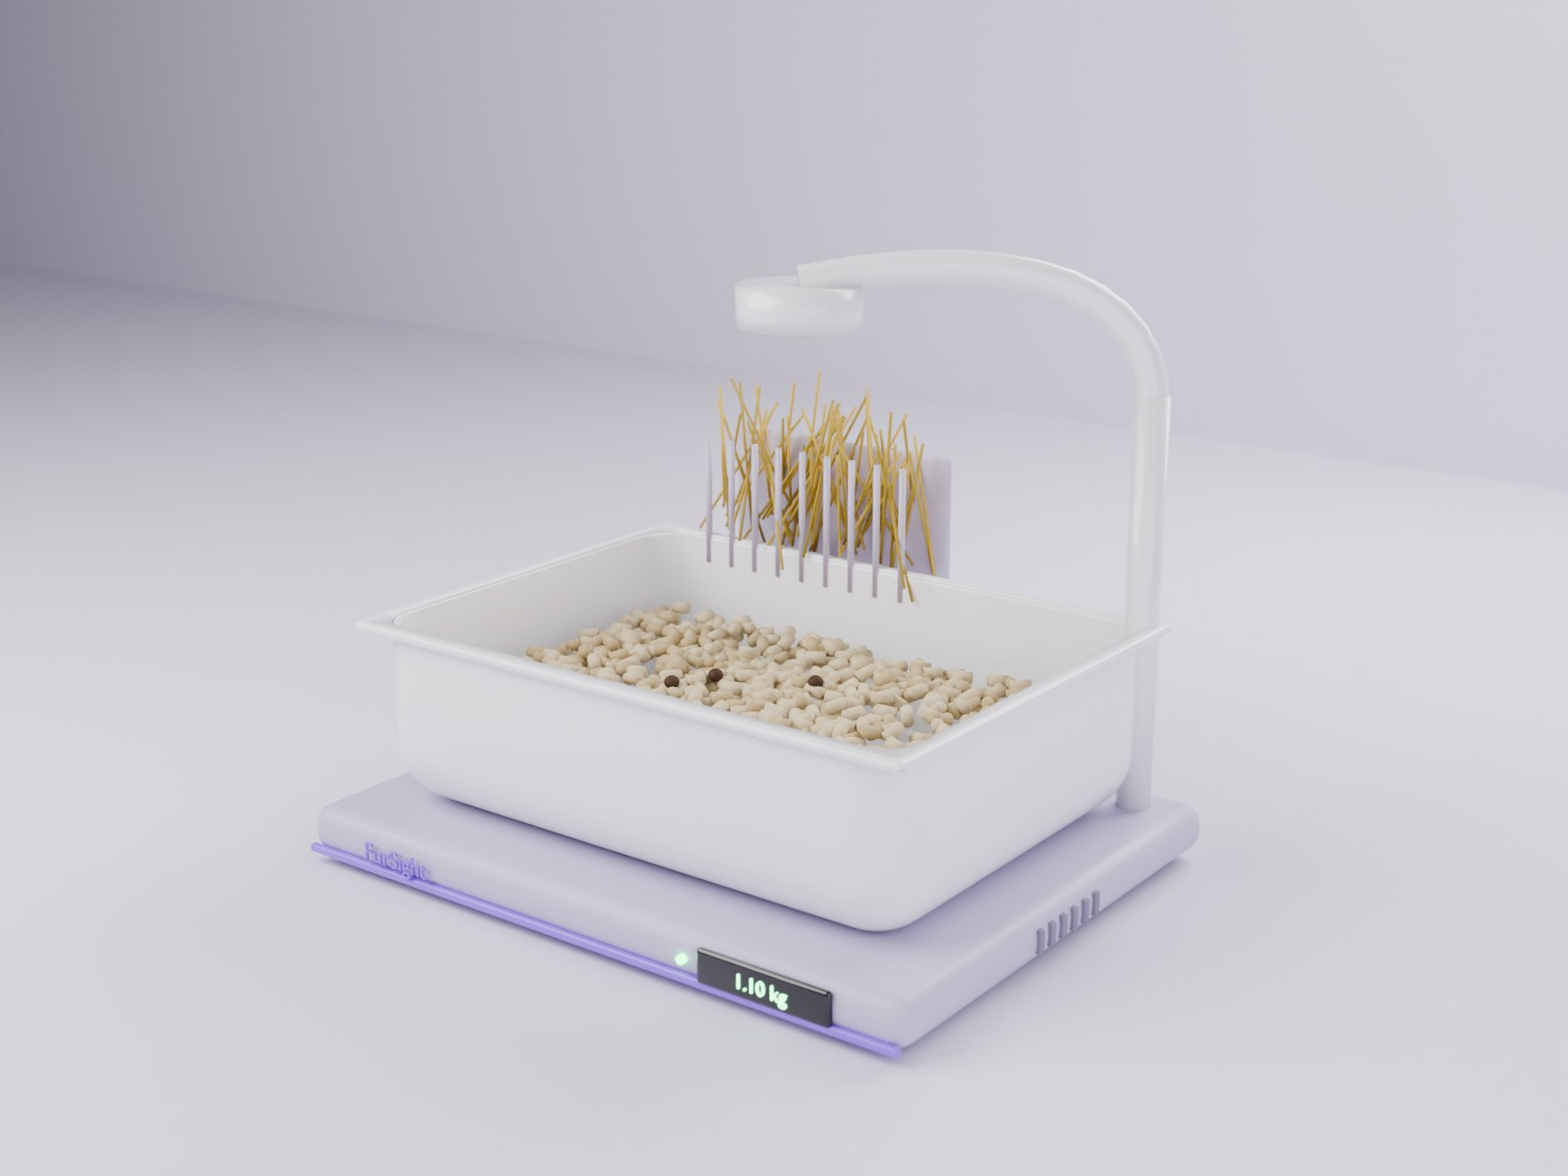
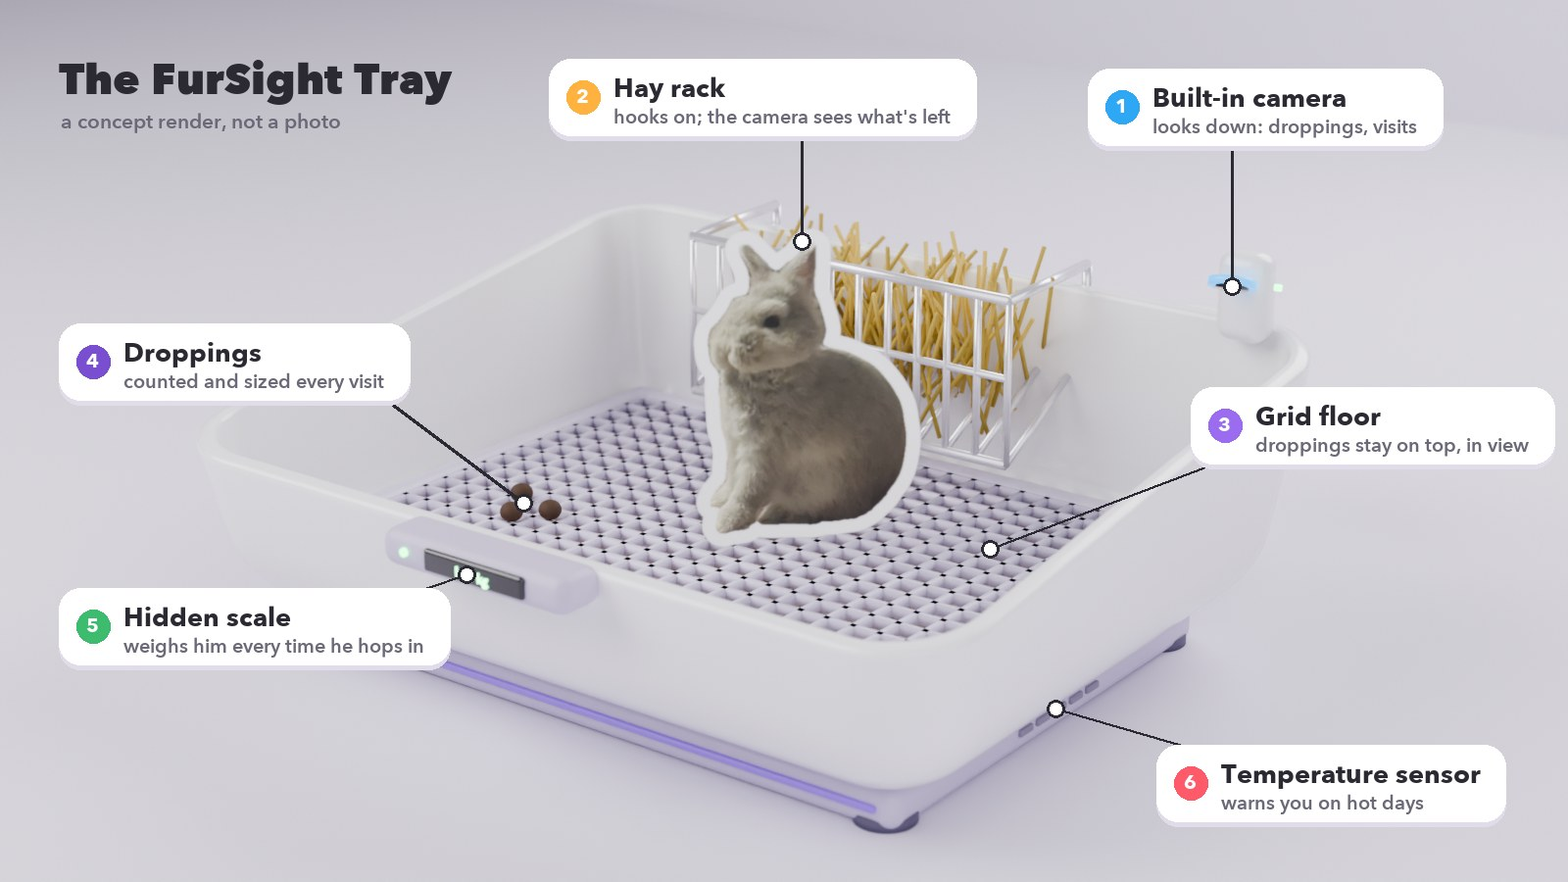
FurSight Tray re-render: tapered tray with grid floor, wire hay rack, hidden scale, built-in camera, Xiaosi, labels; device stickers from SAM 3.1 cutouts

diff --git a/server/public/intro/index.html b/server/public/intro/index.html
@@ -31,7 +31,7 @@
   #card .plate { background: #FFFFFF; padding: .5em 1.1em .6em; border-radius: .5em; box-shadow: 0 .12em 0 rgba(43,42,51,.12); }
   #card .plate p { color: var(--ink); }
   /* the kit and the price, after the story */
-  #extra { position: absolute; inset: 0; background: var(--bg); opacity: 0; transition: opacity .7s ease; pointer-events: none; display: grid; place-items: center; }
+  #extra { position: absolute; inset: 0; padding-bottom: 12%; background: var(--bg); opacity: 0; transition: opacity .7s ease; pointer-events: none; display: grid; place-items: center; }
   #extra.on { opacity: 1; }
   .kitrow { position: absolute; inset: 3% 3% 17% 3%; display: flex; gap: 2.5%; align-items: center; justify-content: center; }
   .kitrow img.kit { height: 100%; max-width: 66%; object-fit: contain; border-radius: 18px; }
@@ -53,6 +53,8 @@
   .dev { background: #FFFFFF; border-radius: 24px; overflow: hidden; box-shadow: 0 6px 0 rgba(43,42,51,.10); color: var(--ink); }
   .dev .pic { aspect-ratio: 4 / 3; background: #EDE7F7; display: grid; place-items: center; overflow: hidden; }
   .dev .pic img { width: 100%; height: 100%; object-fit: cover; display: block; }
+  .dev .pic img.stk { width: 84%; height: 84%; object-fit: contain; filter: drop-shadow(0 5px 0 rgba(43,42,51,.14)); animation: bob 2.6s ease-in-out infinite; }
+  @keyframes bob { 50% { transform: translateY(-4%) rotate(-2deg); } }
   .dev b { display: block; padding: 4% 6% 0; font-size: clamp(13px, 1.6vw, 26px); font-weight: 900; }
   .dev p { margin: 0; padding: 1% 6% 6%; font-size: clamp(10px, 1.15vw, 19px); font-weight: 800; color: var(--muted); }
   .dev.soon b::after { content: "concept"; margin-left: .5em; font-size: .6em; vertical-align: middle; background: #F1EEF6; color: var(--grape-lip); padding: .15em .6em; border-radius: 99px; }
@@ -217,8 +219,8 @@ async function story(r) {
   show("devices", false); $("bunwrap").setAttribute("opacity", 1);
   $("capText").classList.remove("on"); sfx("whoosh", .6);
   extra(`<div class="devs"><h2>Works today on</h2>
-    <div class="dev"><div class="pic"><img src="/meta/ray-ban-display.jpg" alt="Meta Ray-Ban Display"></div><b>Meta Ray-Ban Display</b><p>Hold up food, ask about him, peek at the pet cam</p></div>
-    <div class="dev"><div class="pic"><img src="/meta/quest-3.jpg" alt="Meta Quest 3"></div><b>Meta Quest</b><p>Verdict cards pinned to real food; speak a note</p></div>
+    <div class="dev"><div class="pic"><img class="stk" src="/meta/ray-ban-display.png" alt="Meta Ray-Ban Display"></div><b>Meta Ray-Ban Display</b><p>Hold up food, ask about him, peek at the pet cam</p></div>
+    <div class="dev"><div class="pic"><img class="stk" src="/meta/quest-3.png" alt="Meta Quest 3" style="animation-delay:-.9s"></div><b>Meta Quest</b><p>Verdict cards pinned to real food; speak a note</p></div>
     <div class="dev"><div class="pic"><div class="phone"><div><img src="${S.stickers.bum.src}" alt=""></div></div></div><b>Your phone</b><p>His diary, alerts with stickers, his week</p></div>
     <div class="credit">Product images: Meta</div></div>`);
   await wait(300, r); await caption("Meta Ray-Ban Display, Meta Quest and your phone.", 3600, r);
@@ -257,10 +259,10 @@ async function story(r) {
     <div class="foot">Rough concept pricing. In this hackathon build the Tray's sensors are simulated; the cams are real.</div></div>`);
   await wait(5600, r);
   sfx("whoosh", .6);
-  extra(`<div class="devs" style="grid-template-columns:repeat(2,1fr);width:66%"><h2>Where it could go next</h2>
-    <div class="dev soon"><div class="pic"><img src="/meta/vr-glasses.jpg" alt="Meta VR Glasses"></div><b>Meta VR Glasses</b><p>Sit with his pet cams in a cosy room while you're away</p></div>
-    <div class="dev soon"><div class="pic"><div class="charm"><img src="${S.stickers.loaf.src}" alt=""></div></div><b>Muse Charm</b><p>His sticker on your keychain; ask Muse how he is</p></div>
-    <div class="credit">Meta VR Glasses image: Meta. Muse Charm drawn as an idea; not built.</div></div>`);
+  extra(`<div class="devs" style="grid-template-columns:repeat(2,1fr);width:54%"><h2>Where it could go next</h2>
+    <div class="dev soon"><div class="pic"><img class="stk" src="/meta/vr-glasses.png" alt="Meta VR Glasses"></div><b>Meta VR Glasses</b><p>Sit with his pet cams in a cosy room while you're away</p></div>
+    <div class="dev soon"><div class="pic"><img class="stk" src="/meta/muse-charm.png" alt="Muse Charm" style="animation-delay:-1.2s"></div><b>Muse Charm</b><p>His sticker on its screen; ask Muse how he is</p></div>
+    <div class="credit">Images: Meta, VRX. FurSight on these is an idea, not built yet.</div></div>`);
   await wait(300, r); await caption("And next: Meta VR Glasses, and Muse Charm on your keychain.", 4000, r);
   $("capText").classList.remove("on");
   extra(""); await wait(500, r);

diff --git a/docs/kit-src/tray_render.py b/docs/kit-src/tray_render.py
@@ -1,10 +1,12 @@
 """A concept render of the FurSight Tray, for the kit page and the README (not a photo of a real product).
 
     /Applications/Blender.app/Contents/MacOS/Blender -b -P docs/kit-src/tray_render.py -- docs/tray-concept.png
+    python3 docs/kit-src/tray_labels.py docs/tray-concept.png docs/tray-concept.jpg
 
-Built from scratch in an empty scene: the scale base (display, status light, name, sensor vents), the litter tray
-with paper litter and a couple of droppings, a clip-on hay rack, and the camera on its arm looking down. Studio
-light, soft shadow, Cycles.
+Shaped like a real rabbit litter tray: a tapered tub with a low front, a grid floor he stands on, and a wire hay
+rack hooked over the back. FurSight hides in it: a slim scale under the tub (just a small readout on the front),
+a camera built into the back corner looking down, a temperature sensor. Xiaosi's own sticker sits on the grid.
+Anchor points for the labels are written next to the render (.json) for tray_labels.py.
 """
 import bpy, bmesh, math, random, sys
 from mathutils import Vector
@@ -45,6 +47,8 @@ M = {
     "poo": mat("poo", srgb("#4A3322"), 0.7),
     "hay": mat("hay", srgb("#D7B95A"), 0.8),
     "hay2": mat("hay2", srgb("#B9A04A"), 0.8),
+    "grid": mat("grid", srgb("#DCD3EC"), 0.45, coat=0.2),
+    "wire": mat("wire", srgb("#F4F2F8"), 0.25, metal=0.6),
     "rack": mat("rack", srgb("#CFC6DD"), 0.4),
     "floor": mat("floor", srgb("#E6E0EF"), 0.85),
     "vent": mat("vent", srgb("#8A8399"), 0.6),
@@ -71,82 +75,122 @@ def text(body, size, loc, rot, material, extrude=0.0006, align="CENTER"):
     t.data.align_x = align; t.data.align_y = "CENTER"; t.data.materials.append(material)
     return t
 
-# ---------------------------------------------------------------- the scale base
-BW, BD, BH = 0.50, 0.38, 0.034
-box("base", (BW, BD, BH), (0, 0, BH / 2 + 0.006), M["base"], bevel=0.014)
-box("foot", (BW - 0.03, BD - 0.03, 0.008), (0, 0, 0.004), M["foot"], bevel=0.003)
-box("accent", (BW - 0.006, 0.006, 0.006), (0, -BD / 2 + 0.0, 0.010), M["accent"], bevel=0.002)
-# display and status light on the front, the name beside them
-box("screen", (0.10, 0.006, 0.024), (0.15, -BD / 2 - 0.001, BH / 2 + 0.006), M["screen"], bevel=0.003)
-text("1.10 kg", 0.0135, (0.15, -BD / 2 - 0.0045, BH / 2 + 0.0055), (math.radians(90), 0, 0), M["digits"])
-cyl("led", 0.003, 0.004, (0.088, -BD / 2 - 0.002, BH / 2 + 0.006), M["led"], rot=(math.radians(90), 0, 0))
-text("FurSight", 0.018, (-0.16, -BD / 2 - 0.0035, BH / 2 + 0.0055), (math.radians(90), 0, 0), M["accent"], extrude=0.0008)
-# sensor vents on the right side (temperature and humidity)
-for i in range(6):
-    box(f"vent{i}", (0.004, 0.006, 0.016), (BW / 2 + 0.0005, -0.04 + i * 0.014, BH / 2 + 0.006), M["vent"], bevel=0.001)
-
-# ---------------------------------------------------------------- the litter tray (a tub: a box with no top, rounded, thick walls)
-TW, TD, TH = 0.44, 0.32, 0.13
-bm = bmesh.new()
-bmesh.ops.create_cube(bm, size=1.0)
-for v in bm.verts: v.co = Vector((v.co.x * TW, v.co.y * TD, v.co.z * TH))
-top = [f for f in bm.faces if f.normal.z > 0.9]
-bmesh.ops.delete(bm, geom=top, context="FACES")
+# ---------------------------------------------------------------- the tub: tapered, high back and sides, a low front
+TW, TD, TH, DROP = 0.46, 0.36, 0.15, 0.055       # width, depth, back height, how much lower the front is
+Z0 = 0.022                                        # sits on the slim scale
+bm = bmesh.new(); bmesh.ops.create_cube(bm, size=1.0)
+for v in bm.verts:
+    x, y, z = v.co.x * TW, v.co.y * TD, v.co.z * TH
+    if v.co.z > 0:
+        x *= 1.09; y *= 1.09                          # walls flare out
+        if v.co.y < 0: z -= DROP                      # the low front, so he can hop in
+    v.co = Vector((x, y, z))
+bmesh.ops.delete(bm, geom=[f for f in bm.faces if f.normal.z > 0.5], context="FACES")
 me = bpy.data.meshes.new("tub"); bm.to_mesh(me); bm.free()
 tub = bpy.data.objects.new("tub", me); scene.collection.objects.link(tub)
-tub.location = (0, 0.005, BH + 0.006 + TH / 2)
-bev = tub.modifiers.new("bevel", "BEVEL"); bev.width = 0.045; bev.segments = 10; bev.limit_method = "ANGLE"
-sol = tub.modifiers.new("solid", "SOLIDIFY"); sol.thickness = 0.006; sol.offset = -1
-bev2 = tub.modifiers.new("bevel2", "BEVEL"); bev2.width = 0.002; bev2.segments = 3; bev2.limit_method = "ANGLE"
+tub.location = (0, 0, Z0 + TH / 2)
+bev = tub.modifiers.new("bevel", "BEVEL"); bev.width = 0.05; bev.segments = 12; bev.limit_method = "ANGLE"
+sol = tub.modifiers.new("solid", "SOLIDIFY"); sol.thickness = 0.012; sol.offset = -1
+bev2 = tub.modifiers.new("bevel2", "BEVEL"); bev2.width = 0.004; bev2.segments = 4; bev2.limit_method = "ANGLE"
 tub.data.materials.append(M["white"])
 for p in tub.data.polygons: p.use_smooth = True
-# a rim lip round the top
-box("rim", (TW + 0.012, TD + 0.012, 0.008), (0, 0.005, BH + 0.006 + TH - 0.002), M["white"], bevel=0.004).modifiers.new("hole", "BOOLEAN")
-rim = bpy.data.objects["rim"]
-cut = box("rimcut", (TW - 0.01, TD - 0.01, 0.05), (0, 0.005, BH + 0.006 + TH), M["white"], bevel=0.04)
-rim.modifiers["hole"].object = cut; rim.modifiers["hole"].operation = "DIFFERENCE"
-cut.hide_render = True; cut.hide_viewport = True
 
-# paper litter: lots of little pellets, and two droppings
-LZ = BH + 0.006 + 0.075
-pellets = []
-for k, m in enumerate([M["litter"], M["litter2"]]):
-    me = bpy.data.meshes.new(f"pellet{k}")
-    bm = bmesh.new(); bmesh.ops.create_cone(bm, cap_ends=True, segments=10, radius1=0.0045, radius2=0.0045, depth=0.014); bm.to_mesh(me); bm.free()
-    for p in me.polygons: p.use_smooth = True
-    me.materials.append(m); pellets.append(me)
-for i in range(900):
-    o = bpy.data.objects.new(f"pellet{i}", pellets[0 if i % 3 else 1]); scene.collection.objects.link(o)
-    o.location = (random.uniform(-TW / 2 + 0.035, TW / 2 - 0.035), 0.005 + random.uniform(-TD / 2 + 0.035, TD / 2 - 0.035), LZ + random.uniform(-0.004, 0.006))
+# ---------------------------------------------------------------- the hidden scale: a slim plinth, one small readout
+PW, PD = TW - 0.07, TD - 0.07
+box("plinth", (PW, PD, Z0), (0, 0, Z0 / 2), M["base"], bevel=0.008)
+box("stripe", (PW - 0.02, 0.004, 0.004), (0, -PD / 2 - 0.0005, Z0 * 0.55), M["accent"], bevel=0.0015)
+for sx in (-1, 1):
+    for sy in (-1, 1):
+        cyl(f"foot{sx}{sy}", 0.016, 0.006, (sx * (TW / 2 - 0.05), sy * (TD / 2 - 0.05), 0.003), M["foot"])
+# the front tab: a pull handle with a little readout and a status light
+FY = -TD / 2 * 1.09 - 0.006; FZ = Z0 + TH - DROP - 0.006
+box("tab", (0.12, 0.03, 0.02), (0, FY - 0.004, FZ), M["base"], bevel=0.008)
+box("screen", (0.064, 0.004, 0.012), (0.004, FY - 0.0195, FZ + 0.001), M["screen"], bevel=0.002)
+text("1.10 kg", 0.0075, (0.004, FY - 0.0218, FZ + 0.0005), (math.radians(90), 0, 0), M["digits"])
+cyl("led", 0.0022, 0.003, (-0.042, FY - 0.019, FZ + 0.001), M["led"], rot=(math.radians(90), 0, 0))
+
+# temperature and humidity: a few slots on the right
+for i in range(5):
+    box(f"vent{i}", (0.003, 0.012, 0.004), (PW / 2 + 0.0004, -0.03 + i * 0.016, Z0 * 0.55), M["vent"], bevel=0.001)
+
+# ---------------------------------------------------------------- the grid floor he stands on (droppings fall through, stay in view)
+GZ = Z0 + 0.035; GW, GD = TW - 0.035, TD - 0.035
+ring = box("gridframe", (GW, GD, 0.008), (0, 0, GZ), M["grid"], bevel=0.006)
+ring.modifiers.new("hole", "BOOLEAN")
+hole = box("gridhole", (GW - 0.03, GD - 0.03, 0.05), (0, 0, GZ), M["grid"], bevel=0.01)
+ring.modifiers["hole"].object = hole; ring.modifiers["hole"].operation = "DIFFERENCE"; hole.hide_render = hole.hide_viewport = True
+nx, ny = 26, 20
+for i in range(1, nx):
+    box(f"gx{i}", (0.0035, GD - 0.02, 0.006), (-GW / 2 + i * GW / nx, 0, GZ), M["grid"])
+for j in range(1, ny):
+    box(f"gy{j}", (GW - 0.02, 0.0035, 0.006), (0, -GD / 2 + j * GD / ny, GZ), M["grid"])
+# litter under the grid, two droppings on it (what the camera counts)
+LZ = Z0 + 0.016
+pellet = bpy.data.meshes.new("pellet")
+bm = bmesh.new(); bmesh.ops.create_cone(bm, cap_ends=True, segments=8, radius1=0.004, radius2=0.004, depth=0.012); bm.to_mesh(pellet); bm.free()
+pellet.materials.append(M["litter"])
+for i in range(500):
+    o = bpy.data.objects.new(f"pellet{i}", pellet); scene.collection.objects.link(o)
+    o.location = (random.uniform(-GW / 2 + 0.02, GW / 2 - 0.02), random.uniform(-GD / 2 + 0.02, GD / 2 - 0.02), LZ + random.uniform(-0.004, 0.004))
     o.rotation_euler = (random.uniform(1.2, 1.9), 0, random.uniform(0, math.pi))
-for i, (x, y) in enumerate([(-0.06, -0.02), (-0.045, 0.01), (0.02, 0.04)]):
-    bpy.ops.mesh.primitive_uv_sphere_add(radius=0.0055, location=(x, y, LZ + 0.008))
+for i, (x, y) in enumerate([(-0.12, -0.06), (-0.105, -0.045), (-0.135, -0.035)]):
+    bpy.ops.mesh.primitive_uv_sphere_add(radius=0.0065, location=(x, y, GZ + 0.008))
     o = bpy.context.object; o.scale = (1, 1, 0.85); o.data.materials.append(M["poo"]); bpy.ops.object.shade_smooth()
 
-# ---------------------------------------------------------------- a clip-on hay rack on the back wall
-RX, RY, RZ = -0.08, TD / 2 + 0.03, BH + 0.006 + TH + 0.03
-box("rackback", (0.20, 0.006, 0.10), (RX, RY + 0.02, RZ), M["rack"], bevel=0.003)
-for i in range(9):
-    cyl(f"bar{i}", 0.0025, 0.10, (RX - 0.09 + i * 0.0225, RY - 0.03, RZ), M["rack"])
-box("rackbottom", (0.20, 0.05, 0.006), (RX, RY - 0.005, RZ - 0.05), M["rack"], bevel=0.002)
-for i in range(70):
-    x = RX + random.uniform(-0.09, 0.09); y = RY + random.uniform(-0.025, 0.015)
-    cyl(f"hay{i}", 0.0012, random.uniform(0.07, 0.13), (x, y, RZ + random.uniform(0.0, 0.04)), M["hay"] if i % 2 else M["hay2"],
-        rot=(random.uniform(-0.5, 0.5), random.uniform(-0.6, 0.6), 0), verts=6)
+# ---------------------------------------------------------------- the wire hay rack, hooked over the back wall
+BY = TD / 2 * 1.09 - 0.012; TOPZ = Z0 + TH
+RX0, RX1 = -0.13, 0.09; RD = 0.07                     # x span, how far it sticks out from the back wall
+def rod(name, a, b, r=0.0022):
+    a, b = Vector(a), Vector(b); d = b - a
+    bpy.ops.mesh.primitive_cylinder_add(radius=r, depth=d.length, location=(a + b) / 2, vertices=10)
+    o = bpy.context.object; o.name = name; o.rotation_euler = d.to_track_quat("Z", "Y").to_euler(); o.data.materials.append(M["wire"]); bpy.ops.object.shade_smooth()
+for i in range(12):
+    x = RX0 + i * (RX1 - RX0) / 11
+    rod(f"rf{i}", (x, BY - RD, TOPZ - 0.085), (x, BY - RD, TOPZ + 0.01))          # front bars
+    rod(f"rb{i}", (x, BY - RD, TOPZ - 0.085), (x, BY - 0.006, TOPZ - 0.05))        # sloping floor of the basket
+rod("rtop", (RX0, BY - RD, TOPZ + 0.01), (RX1, BY - RD, TOPZ + 0.01), 0.003)
+rod("rbot", (RX0, BY - RD, TOPZ - 0.085), (RX1, BY - RD, TOPZ - 0.085), 0.003)
+rod("rmid", (RX0, BY - RD, TOPZ - 0.035), (RX1, BY - RD, TOPZ - 0.035))
+for x in (RX0, RX1):
+    rod(f"hook{x}", (x, BY - RD, TOPZ + 0.01), (x, BY + 0.012, TOPZ + 0.012), 0.003)
+    rod(f"hookd{x}", (x, BY + 0.012, TOPZ + 0.012), (x, BY + 0.012, TOPZ - 0.02), 0.003)
+for i in range(110):
+    x = random.uniform(RX0 + 0.01, RX1 - 0.01); y = BY - random.uniform(0.01, RD - 0.008)
+    cyl(f"hay{i}", 0.0013, random.uniform(0.06, 0.1), (x, y, TOPZ - 0.04 + random.uniform(0, 0.025)), M["hay"] if i % 2 else M["hay2"],
+        rot=(random.uniform(-0.6, 0.6), random.uniform(-0.7, 0.7), 0), verts=6)
 
-# ---------------------------------------------------------------- the camera on its arm, looking down at the tray
-PX, PY = BW / 2 - 0.04, BD / 2 - 0.035
-cyl("post", 0.012, 0.29, (PX, PY, BH + 0.006 + 0.145), M["white"])
-curve = bpy.data.curves.new("arm", "CURVE"); curve.dimensions = "3D"; curve.bevel_depth = 0.011; curve.bevel_resolution = 6
-sp = curve.splines.new("BEZIER"); sp.bezier_points.add(1)
-a, b = sp.bezier_points
-a.co = (PX, PY, BH + 0.29); a.handle_left = (PX, PY, BH + 0.25); a.handle_right = (PX, PY, BH + 0.36)
-b.co = (0.02, 0.02, BH + 0.37); b.handle_left = (0.14, 0.12, BH + 0.40); b.handle_right = (-0.04, -0.02, BH + 0.36)
-arm = bpy.data.objects.new("arm", curve); scene.collection.objects.link(arm); arm.data.materials.append(M["white"])
-cyl("cam", 0.042, 0.026, (0.02, 0.02, BH + 0.355), M["white"])
-cyl("camring", 0.02, 0.004, (0.02, 0.02, BH + 0.3415), M["lensring"])
-cyl("lens", 0.015, 0.006, (0.02, 0.02, BH + 0.340), M["lens"])
-cyl("camled", 0.0025, 0.004, (0.052, 0.02, BH + 0.342), M["led"])
+# ---------------------------------------------------------------- the camera, built into the back right corner, looking down
+CX, CY, CZ = TW / 2 * 1.09 - 0.05, BY - 0.02, TOPZ + 0.045
+box("camneck", (0.03, 0.022, 0.05), (CX, CY + 0.012, TOPZ + 0.018), M["white"], bevel=0.009)
+pod = box("campod", (0.09, 0.06, 0.044), (CX, CY, CZ), M["white"], bevel=0.018)
+pod.rotation_euler = (math.radians(-28), 0, math.radians(18))
+face = Vector((0, -0.016, -0.016))
+cam_r = pod.rotation_euler
+def onpod(off): v = Vector(off); v.rotate(cam_r); return Vector((CX, CY, CZ)) + v
+for name, r, d, m, off in [("camring", 0.013, 0.004, M["lensring"], (0, -0.006, -0.0185)), ("lens", 0.009, 0.004, M["lens"], (0, -0.006, -0.0195)),
+                           ("camled", 0.0022, 0.003, M["led"], (0.024, -0.006, -0.0185))]:
+    o = cyl(name, r, d, onpod(off), m); o.rotation_euler = cam_r
+
+# ---------------------------------------------------------------- Xiaosi: his own sticker, standing on the grid, turned to the camera
+STICK = sys.argv[sys.argv.index("--") + 2] if "--" in sys.argv and len(sys.argv) > sys.argv.index("--") + 2 else None
+CAM_LOC = Vector((0.86, -1.12, 0.62))
+if STICK:
+    img = bpy.data.images.load(STICK); iw, ih = img.size; SW = 0.15; SH = SW * ih / iw
+    sx_, sy_ = 0.06, -0.03
+    bpy.ops.mesh.primitive_plane_add(size=1, location=(sx_, sy_, GZ + 0.004 + SH / 2))
+    st = bpy.context.object; st.scale = (SW, SH, 1)
+    d = CAM_LOC - Vector((sx_, sy_, 0)); st.rotation_euler = (math.radians(90), 0, math.atan2(d.x, -d.y))
+    sm = bpy.data.materials.new("sticker"); sm.use_nodes = True; nt = sm.node_tree
+    tex = nt.nodes.new("ShaderNodeTexImage"); tex.image = img; b = nt.nodes["Principled BSDF"]
+    nt.links.new(tex.outputs["Color"], b.inputs["Base Color"]); nt.links.new(tex.outputs["Alpha"], b.inputs["Alpha"])
+    nt.links.new(tex.outputs["Color"], b.inputs["Emission Color"]); b.inputs["Emission Strength"].default_value = 0.25
+    b.inputs["Roughness"].default_value = 0.6
+    st.data.materials.append(sm)
+
+# ---------------------------------------------------------------- where the labels point (written next to the render)
+ANCHORS = {"camera": onpod((0, -0.006, -0.02)), "hay": Vector(((RX0 + RX1) / 2 - 0.03, BY - RD, TOPZ + 0.02)),
+           "grid": Vector((0.15, -0.09, GZ + 0.004)), "scale": Vector((0.0, FY - 0.02, FZ)), "droppings": Vector((-0.12, -0.05, GZ + 0.01)),
+           "vents": Vector((PW / 2, 0.0, Z0 * 0.55)), "him": Vector((0.06, -0.03, GZ + 0.12))}
 
 # ---------------------------------------------------------------- studio: a soft backdrop, three lights, a camera
 bpy.ops.mesh.primitive_plane_add(size=6, location=(0, 0, 0)); bpy.context.object.data.materials.append(M["floor"])
@@ -160,9 +204,9 @@ def light(name, loc, energy, size, rgb=(1, 1, 1)):
 light("key", (-0.9, -0.9, 1.2), 34, 1.4)
 light("fill", (1.1, -0.6, 0.6), 10, 1.2, (0.95, 0.93, 1.0))
 light("rim", (0.3, 1.2, 1.0), 22, 1.0)
-cd = bpy.data.cameras.new("cam"); cd.lens = 50
+cd = bpy.data.cameras.new("cam"); cd.lens = 64
 co = bpy.data.objects.new("camera", cd); scene.collection.objects.link(co); scene.camera = co
-co.location = (0.86, -1.12, 0.62)
+co.location = CAM_LOC
 co.rotation_euler = (Vector((0.0, 0.03, 0.19)) - co.location).to_track_quat("-Z", "Y").to_euler()
 cd.dof.use_dof = True; cd.dof.focus_distance = (Vector((0, 0, 0.15)) - co.location).length; cd.dof.aperture_fstop = 5.6
 
@@ -178,4 +222,7 @@ scene.render.resolution_x, scene.render.resolution_y = 1600, 1200
 scene.view_settings.view_transform = "AgX"; scene.view_settings.look = "AgX - Medium High Contrast"
 scene.render.filepath = out
 bpy.ops.render.render(write_still=True)
+import json
+from bpy_extras.object_utils import world_to_camera_view
+json.dump({k: [round(c, 4) for c in world_to_camera_view(scene, co, v)[:2]] for k, v in ANCHORS.items()}, open(out.rsplit(".", 1)[0] + ".json", "w"))
 print("rendered", out)

diff --git a/docs/kit-src/tray_labels.py b/docs/kit-src/tray_labels.py
@@ -1,0 +1,49 @@
+"""Labels on the FurSight Tray render, in the kit schematic's style: numbered pills with a leader line to the part.
+
+    python3 docs/kit-src/tray_labels.py docs/tray-concept.png docs/tray-concept.jpg
+
+Reads the anchor points tray_render.py wrote next to the render (<render>.json, 0-1 from the bottom left), crops to
+16:9 and draws the labels.
+"""
+import json, sys
+from PIL import Image, ImageDraw, ImageFont
+
+src, out = sys.argv[1], sys.argv[2]
+im = Image.open(src).convert("RGB"); W, H = im.size
+anchors = json.load(open(src.rsplit(".", 1)[0] + ".json"))
+TOP = H - W * 9 // 16                                    # crop the empty backdrop above
+im = im.crop((0, TOP, W, H)); H = im.height
+px = lambda k: (anchors[k][0] * W, (1 - anchors[k][1]) * (H + TOP) - TOP)
+
+AV = "/System/Library/Fonts/Avenir Next.ttc"
+F_T, F_S, F_N, F_H, F_C = (ImageFont.truetype(AV, s, index=i) for s, i in ((27, 0), (20, 2), (20, 0), (44, 8), (21, 2)))
+INK, MUTED, WHITE = (43, 42, 51), (107, 105, 119), (255, 255, 255)
+d = ImageDraw.Draw(im)
+
+# number, title, line, colour, the part it points at, where the label sits (top left of the pill)
+LABELS = [
+    (1, "Built-in camera", "looks down: droppings, visits", (46, 168, 245), px("camera"), (1110, 70)),
+    (2, "Hay rack", "hooks on; the camera sees what's left", (255, 178, 63), px("hay"), (560, 60)),
+    (3, "Grid floor", "droppings stay on top, in view", (155, 108, 240), (1010, 560), (1215, 395)),
+    (4, "Droppings", "counted and sized every visit", (122, 78, 209), px("droppings"), (60, 330)),
+    (5, "Hidden scale", "weighs him every time he hops in", (61, 187, 110), px("scale"), (60, 600)),
+    (6, "Temperature sensor", "warns you on hot days", (255, 90, 106), px("vents"), (1180, 760)),
+]
+for n, title, line, col, (ax, ay), (lx, ly) in LABELS:
+    tw = max(d.textlength(title, font=F_T), d.textlength(line, font=F_S))
+    w, h = int(tw) + 92, 78
+    cx, cy = (lx + w if ax > lx + w else lx if ax < lx else ax), (ly + h if ay > ly + h else ly)
+    cx = min(max(ax, lx + 24), lx + w - 24)
+    d.line([(cx, cy), (ax, ay)], fill=INK, width=3)
+    d.ellipse((ax - 9, ay - 9, ax + 9, ay + 9), fill=WHITE, outline=INK, width=3)
+    d.rounded_rectangle((lx, ly + 5, lx + w, ly + h + 5), 22, fill=(225, 220, 234))       # the drop, like the kit's cards
+    d.rounded_rectangle((lx, ly, lx + w, ly + h), 22, fill=WHITE)
+    d.ellipse((lx + 18, ly + 22, lx + 52, ly + 56), fill=col)
+    d.text((lx + 35, ly + 39), str(n), font=F_N, fill=WHITE, anchor="mm")
+    d.text((lx + 66, ly + 12), title, font=F_T, fill=INK)
+    d.text((lx + 66, ly + 46), line, font=F_S, fill=MUTED)
+
+d.text((60, 52), "The FurSight Tray", font=F_H, fill=INK)
+d.text((62, 110), "a concept render, not a photo", font=F_C, fill=MUTED)
+im.save(out, quality=88)
+print("wrote", out, im.size)
